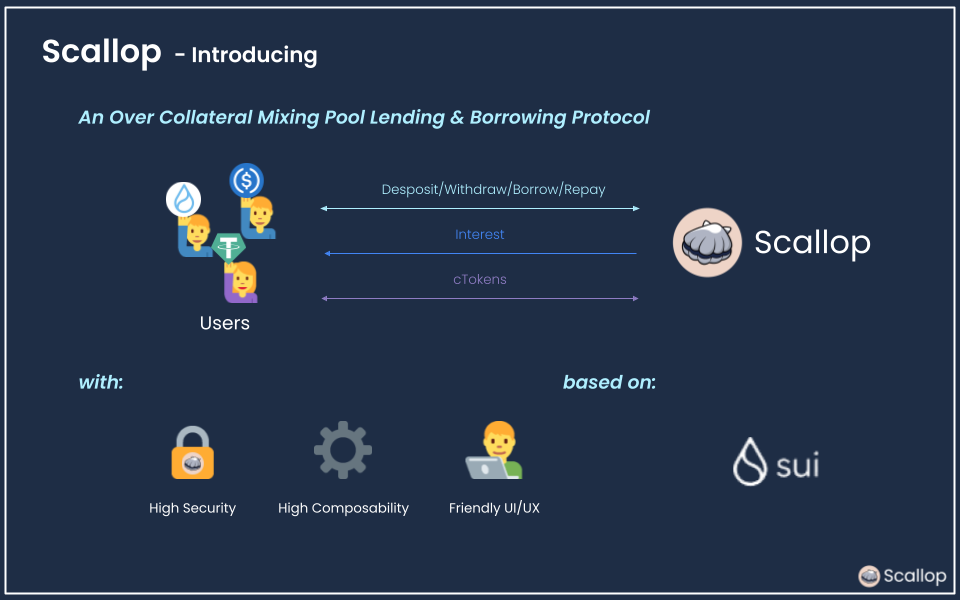
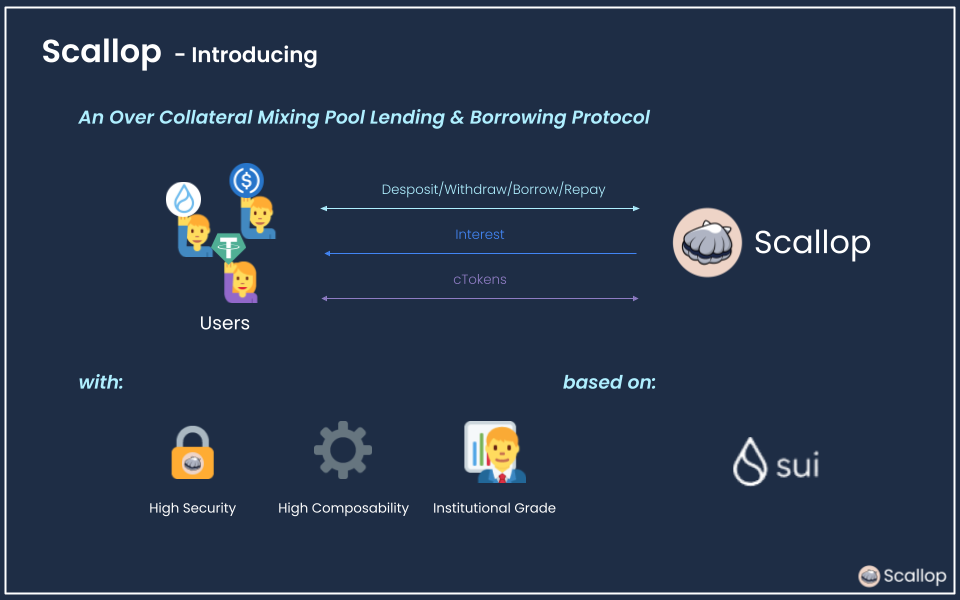
GITBOOK-635: change request with no subject merged in GitBook

Changed region(s): [[0.4688, 0.69, 0.5625, 0.81], [0.4375, 0.84, 0.5938, 0.87]]

diff --git a/README.md b/README.md
@@ -2,20 +2,20 @@
 
 ## **Scallop on Sui**
 
-Scallop is the Next Generation Interest Rate Machine for the Sui ecosystem and is also the first Defi protocol awarded an official grant from the Sui Foundation. Currently building a money market on Sui that emphasizes institutional grade, high composability, and high security.\
+Scallop is the Next Generation Interest Rate Machine for the Sui ecosystem and is also the first Defi protocol awarded an official grant from the Sui Foundation. Currently building a money market on Sui with high-interest lending, low-fee borrowing, and premium bonds.\
 \
 Scallop: [https://www.scallop.io](https://www.scallop.io/)\
 Linktree🌲 : [https://linktr.ee/scallop\_io](https://linktr.ee/scallop\_io)\
 \
 As Users, you can Deposit/Withdraw/Borrow/Repay with the Asset Pools, and Deposit/Withdraw in Collateral Pools.
 
-Scallop on Sui Devnet : [https://sui.scallop.io](https://sui.scallop.io)\
+Scallop on Sui Devnet: [https://sui.scallop.io](https://sui.scallop.io)\
 \
 What we emphasize are:
 
-* High Security&#x20;
+* Institutional Grade
 * High Composability
-* Friendly UI/UX
+* High security
 
 <figure><img src=".gitbook/assets/Scallop Sui Deck.png" alt=""><figcaption><p>Scallop on Sui</p></figcaption></figure>
 
